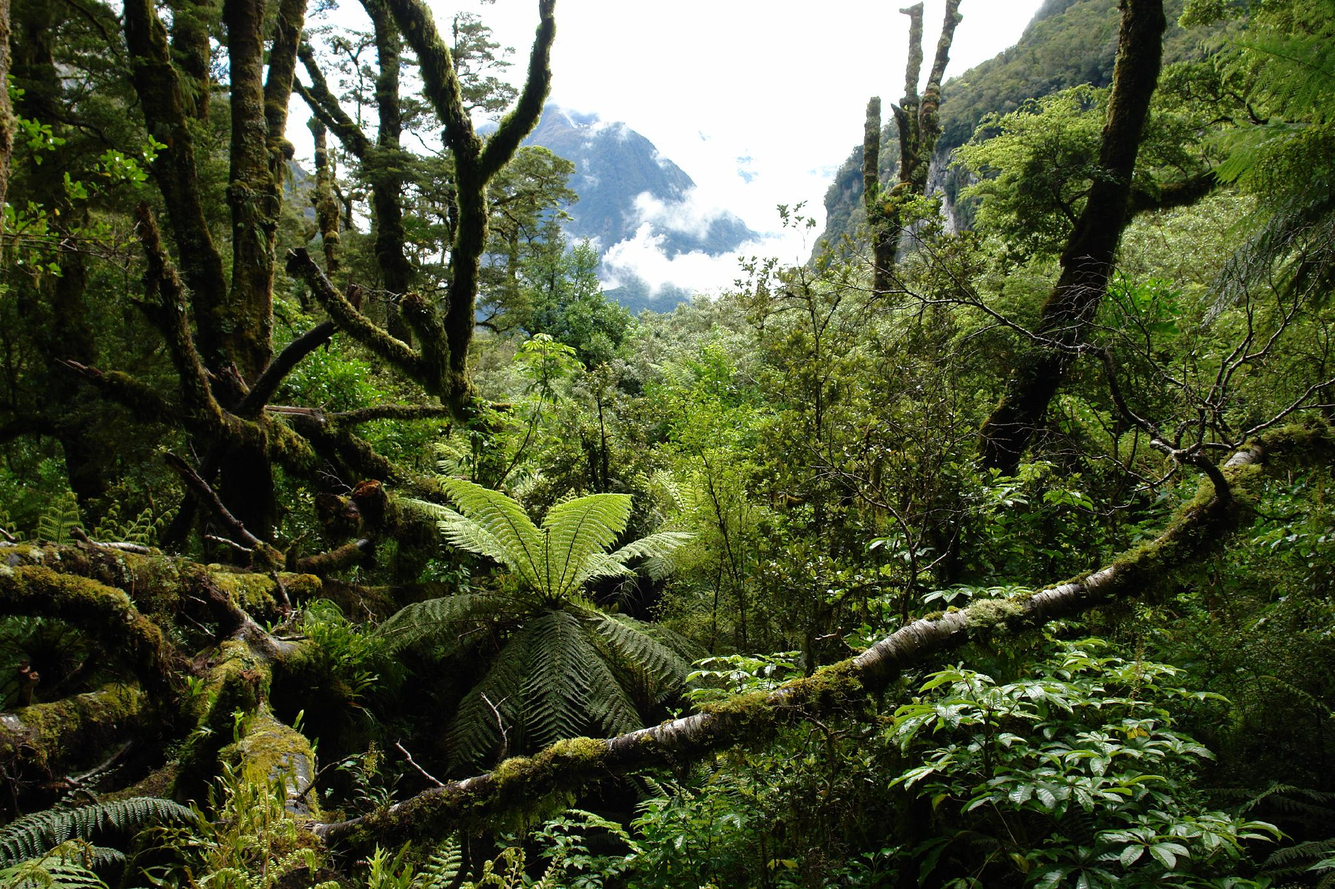
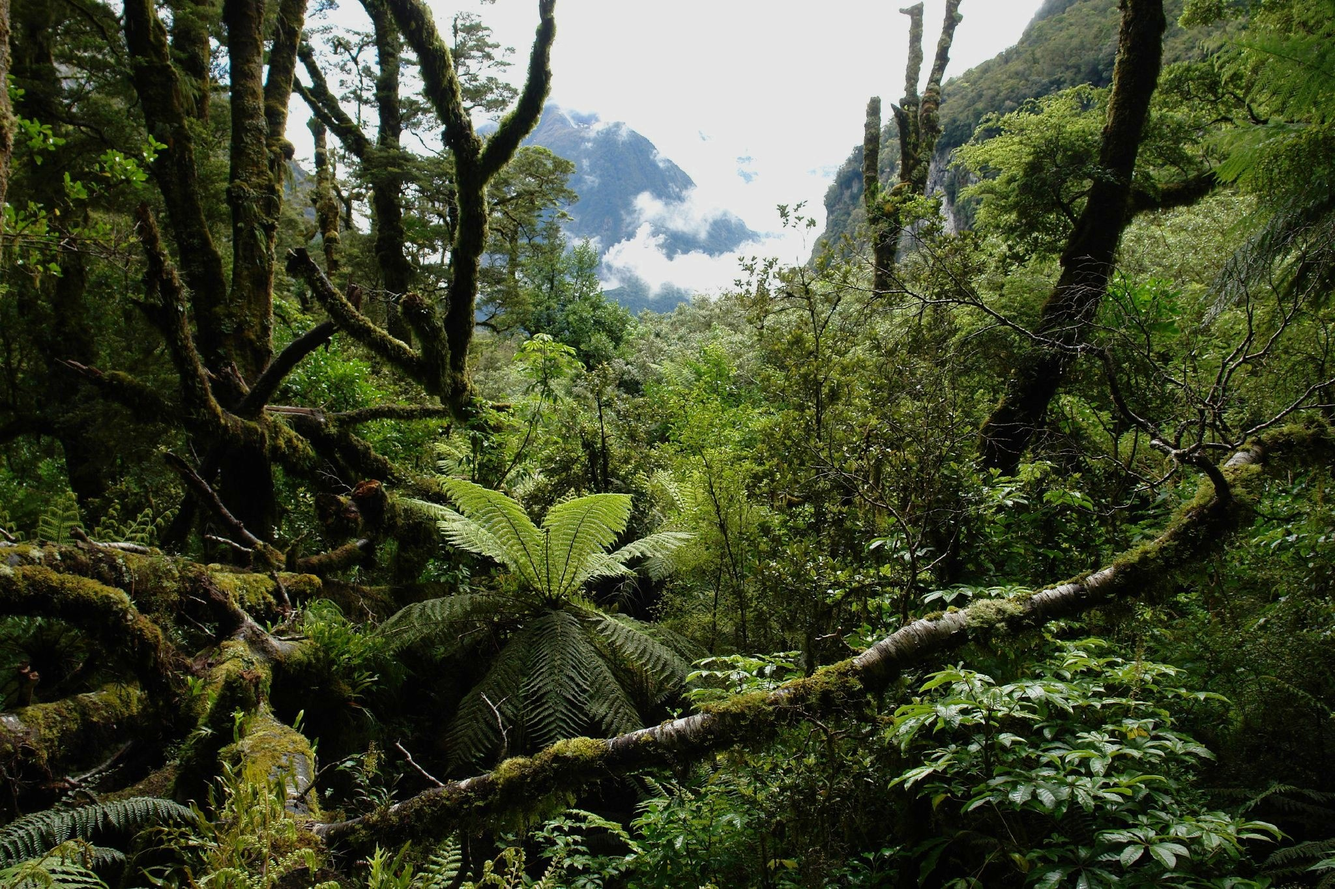
home page work

diff --git a/index.html b/index.html
@@ -29,15 +29,10 @@
     </div>
   </nav>
   </div>
-  <div id="page_containet" class="">
-
-
-
-
-
-
-
-
+  <div id="page_container" class="">
+         <div class="row" id="banner">
+                <img id="banner_image" class="img-fluid" src="resources/Banner-1.jpg" alt="NZ Bush">
+            </div>
   </div>
 <footer class="footer-section">
     <div class="container">

diff --git a/style/bootstrap_style.css b/style/bootstrap_style.css
@@ -31,8 +31,15 @@
 #green_path_brand{
     display: none;
 }
+#banner_image{
+    height:800px;
+    width:100%;
+    max-height:800px;
+    object-fit: cover;
+    opacity: 100%;
+}
+}
  
-} 
 /* Extra large devices (large laptops and desktops, 1200px and up) */ 
 @media only screen and (min-width: 1200px) {
 
